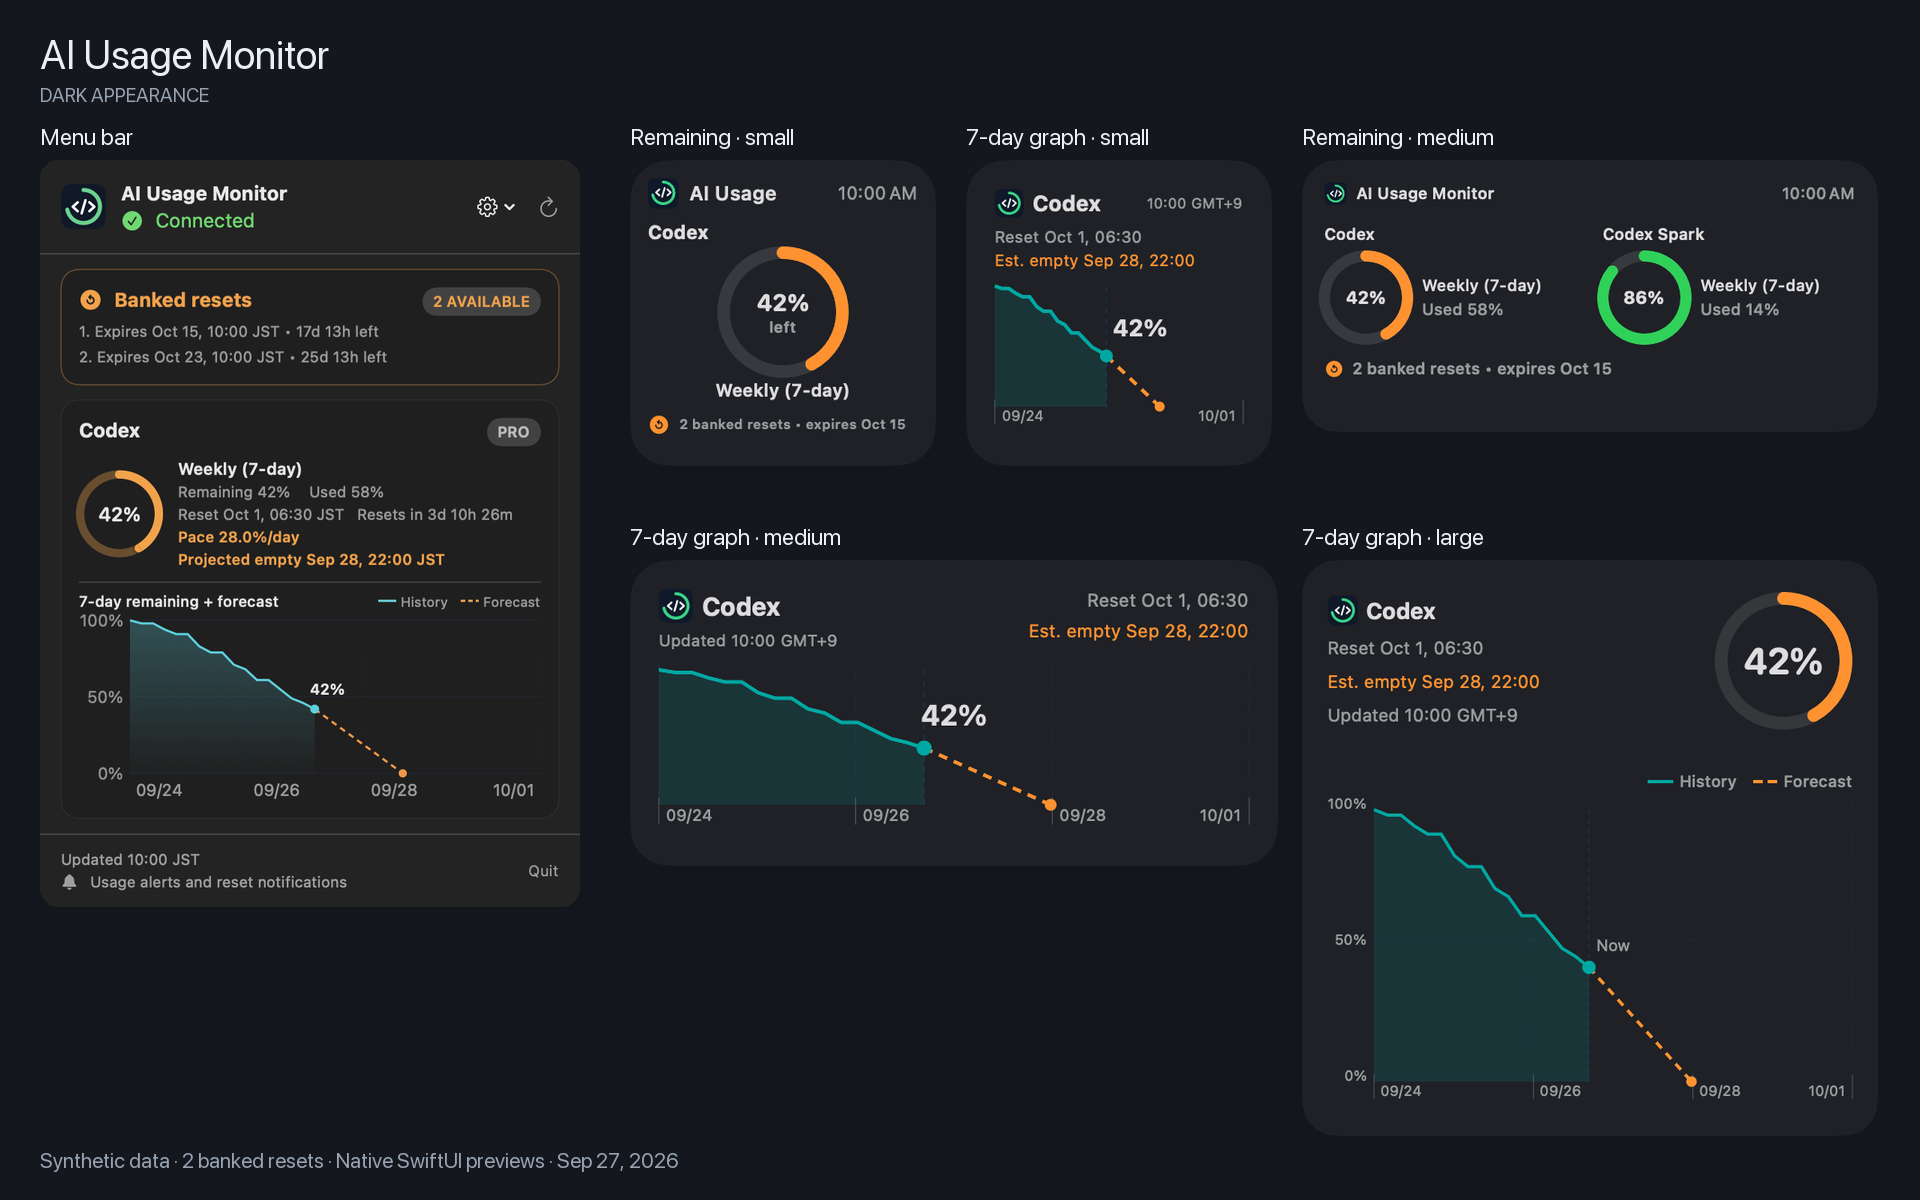
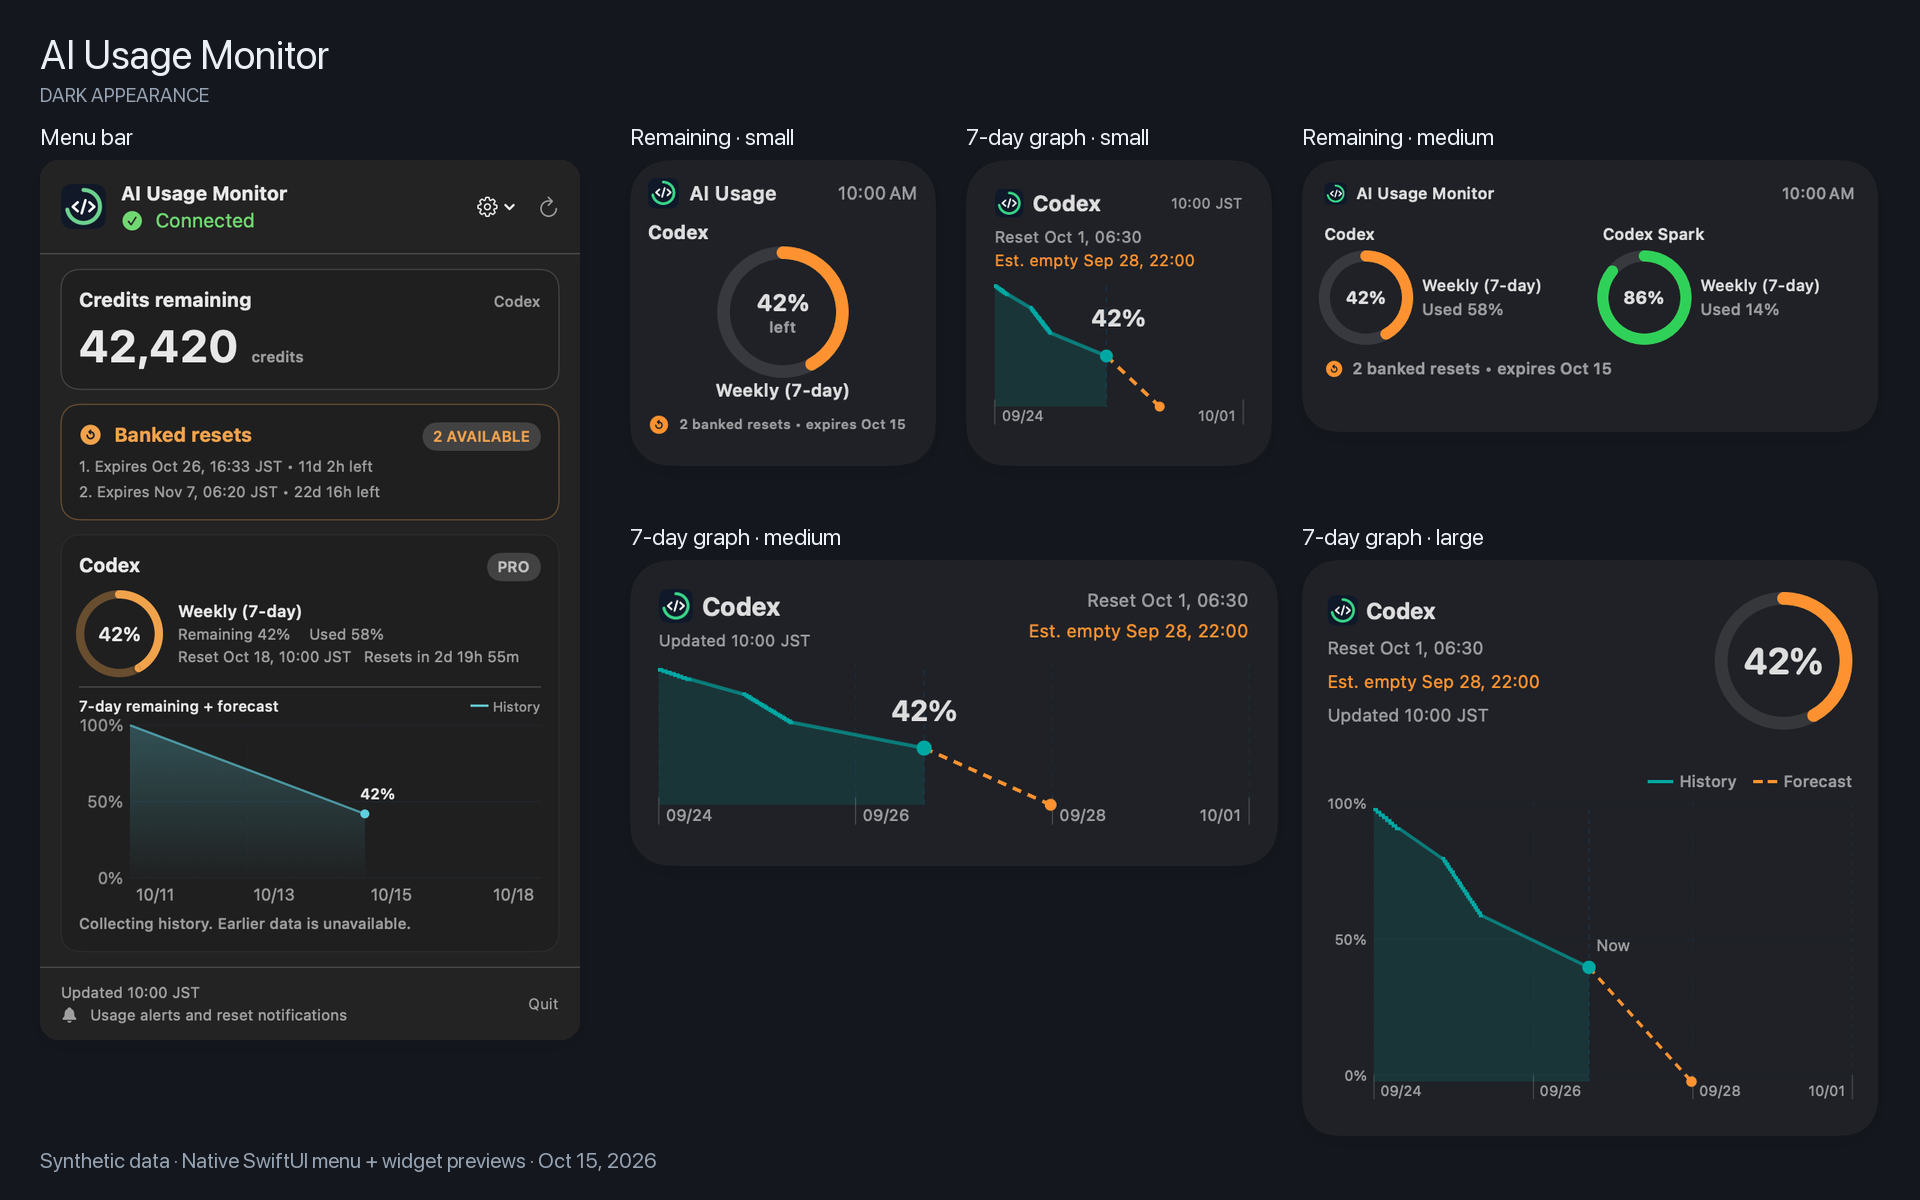
Show remaining Codex credits in the menu panel (#1)

diff --git a/tests/CodexUsageCoreTests/UsageCreditBalanceTests.swift b/tests/CodexUsageCoreTests/UsageCreditBalanceTests.swift
@@ -1,0 +1,111 @@
+import XCTest
+@testable import CodexUsageCore
+
+final class UsageCreditBalanceTests: XCTestCase {
+    private let locale = Locale(identifier: "en_US")
+
+    func testNormalizesExactDecimalBalanceAndRemovesInsignificantZeros() throws {
+        let snapshot = try normalize(["hasCredits": true, "unlimited": false, "balance": "42420.1250000000"])
+        XCTAssertEqual(snapshot.creditBalance, .amount(Decimal(string: "42420.125")!))
+        XCTAssertEqual(snapshot.creditBalance?.formattedAmount(locale: locale), "42,420.125")
+        XCTAssertEqual(snapshot.limits.first?.windows.first?.remainingPercent, 76)
+    }
+
+    func testZeroIsARealBalanceEvenWhenHasCreditsIsFalse() throws {
+        let snapshot = try normalize(["hasCredits": false, "unlimited": false, "balance": "0.0000000000"])
+        XCTAssertEqual(snapshot.creditBalance, .amount(.zero))
+        XCTAssertEqual(snapshot.creditBalance?.formattedAmount(locale: locale), "0")
+    }
+
+    func testMissingBalanceDoesNotBecomeZero() throws {
+        for value: Any? in [nil, NSNull(), ["hasCredits": false, "unlimited": false],
+                               ["hasCredits": false, "unlimited": false, "balance": NSNull()]] {
+            XCTAssertNil(try normalize(value).creditBalance)
+        }
+    }
+
+    func testUnlimitedTakesPrecedenceOverNumericOrMissingBalance() throws {
+        for value: Any in [NSNull(), "0", "42420"] {
+            let snapshot = try normalize(["hasCredits": true, "unlimited": true, "balance": value])
+            XCTAssertEqual(snapshot.creditBalance, .unlimited)
+            XCTAssertEqual(snapshot.creditBalance?.formattedAmount(locale: locale), "Unlimited")
+        }
+    }
+
+    func testInvalidOptionalCreditMetadataDoesNotHideQuotaWindows() throws {
+        let invalid: [Any] = [
+            "invalid", true, ["hasCredits": true, "unlimited": 1, "balance": "42"],
+            ["hasCredits": 1, "unlimited": false, "balance": "42"],
+            ["hasCredits": true, "unlimited": false, "balance": true],
+            ["hasCredits": true, "unlimited": false, "balance": 42],
+            ["hasCredits": true, "unlimited": false, "balance": "42credits"],
+            ["hasCredits": true, "unlimited": false, "balance": "NaN"],
+            ["hasCredits": true, "unlimited": false, "balance": "Infinity"],
+            ["hasCredits": true, "unlimited": false, "balance": "42,420"],
+            ["hasCredits": true, "unlimited": false, "balance": ""]
+        ]
+        for value in invalid {
+            let snapshot = try normalize(value)
+            XCTAssertNil(snapshot.creditBalance)
+            XCTAssertEqual(snapshot.limits.first?.windows.first?.remainingPercent, 76)
+        }
+    }
+
+    func testTinyFractionDoesNotDisplayAsZero() throws {
+        let balance = try normalize(["hasCredits": true, "unlimited": false, "balance": "0.0000000001"])
+        XCTAssertEqual(balance.creditBalance?.formattedAmount(locale: locale), "0.0000000001")
+    }
+
+    func testBalanceDoesNotPassThroughBinaryFloatingPoint() throws {
+        let snapshot = try normalize(["hasCredits": true, "unlimited": false, "balance": "9007199254740993.125"])
+        XCTAssertEqual(snapshot.creditBalance?.formattedAmount(locale: locale), "9,007,199,254,740,993.125")
+    }
+
+    func testFormattingUsesTheRequestedLocale() {
+        XCTAssertEqual(UsageCreditBalance.amount(Decimal(string: "42420.5")!)
+            .formattedAmount(locale: Locale(identifier: "de_DE")), "42.420,5")
+    }
+
+    func testMapIsAuthoritativeAndDoesNotBorrowLegacyCredits() throws {
+        let old = bucket(credits: ["hasCredits": true, "unlimited": false, "balance": "42420"])
+        let snapshot = try UsageNormalizer.normalize([
+            "rateLimits": old,
+            "rateLimitsByLimitId": ["codex": bucket(credits: nil)]
+        ])
+        XCTAssertNil(snapshot.creditBalance)
+    }
+
+    func testLegacyBucketIsSupportedWhenMapIsAbsent() throws {
+        let snapshot = try normalize(["hasCredits": true, "unlimited": false, "balance": "42420"])
+        XCTAssertEqual(snapshot.creditBalance?.formattedAmount(locale: locale), "42,420")
+    }
+
+    func testAdditionalBucketsAreNotAddedOrSubstitutedForCodex() throws {
+        let credits: [String: Any] = ["hasCredits": true, "unlimited": false, "balance": "42420"]
+        var additional = bucket(credits: credits)
+        additional["limitId"] = "additional"
+        let missing = try UsageNormalizer.normalize(["rateLimitsByLimitId": ["additional": additional]])
+        XCTAssertNil(missing.creditBalance)
+        let snapshot = try UsageNormalizer.normalize(["rateLimitsByLimitId": [
+            "additional": additional, "codex": bucket(credits: credits)
+        ]])
+        XCTAssertEqual(snapshot.creditBalance, .amount(42420))
+    }
+
+    func testAbsentCreditsPreserveExistingSnapshotConstruction() {
+        XCTAssertNil(UsageSnapshot(limits: [], updatedAt: Date()).creditBalance)
+    }
+
+    private func normalize(_ credits: Any?) throws -> UsageSnapshot {
+        try UsageNormalizer.normalize(["rateLimits": bucket(credits: credits)])
+    }
+
+    private func bucket(credits: Any?) -> [String: Any] {
+        var value: [String: Any] = [
+            "limitId": "codex",
+            "primary": ["usedPercent": 24, "windowDurationMins": 10080, "resetsAt": 1800000000]
+        ]
+        if let credits { value["credits"] = credits }
+        return value
+    }
+}

diff --git a/Sources/CodexUsageMonitorApp/CreditsBalanceCard.swift b/Sources/CodexUsageMonitorApp/CreditsBalanceCard.swift
@@ -1,0 +1,56 @@
+import CodexUsageCore
+import SwiftUI
+
+struct CreditsBalanceCard: View {
+    let balance: UsageCreditBalance?
+    let isStale: Bool
+
+    private var valueColor: Color {
+        guard let balance else { return .secondary }
+        if case .amount(let value) = balance, value == .zero { return .orange }
+        return .primary
+    }
+
+    var body: some View {
+        VStack(alignment: .leading, spacing: 5) {
+            HStack(alignment: .firstTextBaseline) {
+                Text("Credits remaining")
+                    .font(.headline)
+                Spacer()
+                Text("Codex")
+                    .font(.caption2)
+                    .foregroundStyle(.secondary)
+            }
+            HStack(alignment: .firstTextBaseline, spacing: 8) {
+                Text(balance?.formattedAmount() ?? "Unavailable")
+                    .font(.system(size: balance == nil ? 23 : 30, weight: .bold))
+                    .monospacedDigit()
+                    .foregroundStyle(valueColor)
+                    .lineLimit(1)
+                    .minimumScaleFactor(0.5)
+                if case .amount? = balance {
+                    Text("credits")
+                        .font(.caption.weight(.semibold))
+                        .foregroundStyle(.secondary)
+                }
+            }
+            if isStale {
+                Text(balance == nil ? "Update failed" : "Update failed · Showing last balance")
+                    .font(.caption2)
+                    .foregroundStyle(.orange)
+            } else if balance == nil {
+                Text("Credit balance was not returned")
+                    .font(.caption2)
+                    .foregroundStyle(.secondary)
+            }
+        }
+        .frame(maxWidth: .infinity, alignment: .leading)
+        .padding(12)
+        .background(.background.opacity(0.68), in: RoundedRectangle(cornerRadius: 12))
+        .overlay {
+            RoundedRectangle(cornerRadius: 12)
+                .stroke(.quaternary, lineWidth: 0.8)
+        }
+        .accessibilityElement(children: .combine)
+    }
+}

diff --git a/Sources/CodexUsageMonitorApp/UsagePanel.swift b/Sources/CodexUsageMonitorApp/UsagePanel.swift
@@ -96,6 +96,7 @@ struct UsagePanel: View {
         if let snapshot = model.snapshot {
             ScrollView {
                 LazyVStack(spacing: 10) {
+                    CreditsBalanceCard(balance: snapshot.creditBalance, isStale: hasRefreshFailure)
                     ResetCreditsCard(summary: snapshot.resetCredits)
                     ForEach(Array(snapshot.limits.prefix(2))) { limit in
                         LimitCard(limit: limit, paceEstimates: model.paceEstimates,
@@ -141,6 +142,11 @@ struct UsagePanel: View {
         }
     }
 
+    private var hasRefreshFailure: Bool {
+        if case .failed = model.state { return true }
+        return false
+    }
+
     private var panelHeight: CGFloat {
         let contentHeight = measuredContentHeight > 0
             ? measuredContentHeight
@@ -171,10 +177,10 @@ struct UsagePanel: View {
         } else {
             hasErrorBanner = false
         }
-        let itemCount = snapshot.limits.count + 1 + (hasErrorBanner ? 1 : 0)
+        let itemCount = snapshot.limits.count + 1 + 1 + (hasErrorBanner ? 1 : 0)
         let spacing = CGFloat(max(itemCount - 1, 0)) * 10
         let errorBannerHeight: CGFloat = hasErrorBanner ? 44 : 0
-        return 20 + cardHeight + resetCreditsHeight + spacing + errorBannerHeight
+        return 20 + 84 + cardHeight + resetCreditsHeight + spacing + errorBannerHeight
     }
 
     private var footer: some View {

diff --git a/Sources/CodexUsageCore/UsageModels.swift b/Sources/CodexUsageCore/UsageModels.swift
@@ -36,6 +36,7 @@ public struct UsageLimit: Identifiable, Equatable, Sendable {
     public let rateLimitReachedType: String?
     public let spendControlReached: Bool?
     public let windows: [UsageWindow]
+    public let creditBalance: UsageCreditBalance?
 
     public var id: String { limitID }
 
@@ -45,7 +46,8 @@ public struct UsageLimit: Identifiable, Equatable, Sendable {
         planType: String?,
         rateLimitReachedType: String?,
         spendControlReached: Bool?,
-        windows: [UsageWindow]
+        windows: [UsageWindow],
+        creditBalance: UsageCreditBalance? = nil
     ) {
         self.limitID = limitID
         self.displayName = displayName
@@ -53,6 +55,7 @@ public struct UsageLimit: Identifiable, Equatable, Sendable {
         self.rateLimitReachedType = rateLimitReachedType
         self.spendControlReached = spendControlReached
         self.windows = windows
+        self.creditBalance = creditBalance
     }
 }
 
@@ -96,6 +99,10 @@ public struct UsageResetCreditsSummary: Equatable, Sendable {
 }
 
 public struct UsageSnapshot: Equatable, Sendable {
+    public var creditBalance: UsageCreditBalance? {
+        limits.first { $0.limitID == "codex" }?.creditBalance
+    }
+
     public let limits: [UsageLimit]
     public let resetCredits: UsageResetCreditsSummary?
     public let updatedAt: Date

diff --git a/Sources/CodexUsageCore/UsageNormalizer.swift b/Sources/CodexUsageCore/UsageNormalizer.swift
@@ -159,8 +159,25 @@ public enum UsageNormalizer {
             planType: planType,
             rateLimitReachedType: reachedType,
             spendControlReached: spendControlReached,
-            windows: windows
+            windows: windows,
+            creditBalance: parseCreditBalance(snapshot["credits"])
         )
+    }
+
+    private static func parseCreditBalance(_ value: Any?) -> UsageCreditBalance? {
+        guard let raw = value as? [String: Any],
+              let hasCredits = raw["hasCredits"] as? NSNumber,
+              CFGetTypeID(hasCredits) == CFBooleanGetTypeID(),
+              let unlimited = raw["unlimited"] as? NSNumber,
+              CFGetTypeID(unlimited) == CFBooleanGetTypeID()
+        else { return nil }
+        if unlimited.boolValue { return .unlimited }
+        guard let string = raw["balance"] as? String,
+              string.range(of: #"^-?[0-9]+(?:\.[0-9]+)?$"#, options: .regularExpression) != nil,
+              let amount = Decimal(string: string, locale: Locale(identifier: "en_US_POSIX")),
+              !amount.isNaN
+        else { return nil }
+        return .amount(amount)
     }
 
     private static func parseWindow(

diff --git a/Sources/CodexUsageCore/UsageCreditBalance.swift b/Sources/CodexUsageCore/UsageCreditBalance.swift
@@ -1,0 +1,18 @@
+import Foundation
+
+/// The returned Codex credit balance, separate from quota percentages and reset vouchers.
+public enum UsageCreditBalance: Equatable, Sendable {
+    case amount(Decimal)
+    case unlimited
+
+    public func formattedAmount(locale: Locale = .current) -> String {
+        switch self {
+        case .unlimited:
+            return "Unlimited"
+        case .amount(let balance):
+            return balance.formatted(
+                .number.precision(.fractionLength(0...38)).locale(locale)
+            )
+        }
+    }
+}

diff --git a/README.md b/README.md
@@ -11,6 +11,7 @@ AI Usage Monitorは、ローカルにインストールされたCodexの`app-ser
 
 架空データによる表示例です。メニュー画面、円グラフウィジェットの小・中サイズ、
 7日間グラフウィジェットの小・中・大サイズをライト・ダーク両方で紹介します。
+メニューの残クレジットは42,420という架空の表示例です。
 バンクリセットは2件あり、メニューではそれぞれの期限を表示しています。
 
 ライト表示：
@@ -116,6 +117,8 @@ URLで識別してください。
 
 ## 主な機能
 
+- メニューバー画面の上部に、Codexから返された残クレジットを表示します。
+
 - ローカルのCodex `app-server`が返す、すべての利用枠を表示します。
 - 残量、使用率、リセット時刻、リセットまでのカウントダウンを表示します。
 - 利用可能なすべてのバンクリセットと、判明している各有効期限を表示します。
@@ -132,6 +135,15 @@ URLで識別してください。
 
 AI Usage Monitorがバンクリセットを使用したり、利用上限の回避・変更を試みたりする
 ことはありません。
+
+## 残クレジット
+
+メニューバー画面の「Credits remaining」に、Codexが返す現在の残高を表示します。
+リセット券の枚数や週間利用枠の残量とは別の値です。総付与量からの推計や固定値ではありません。
+小数を含む残高も表示し、残高0、無制限（Unlimited）、未取得（Unavailable）を区別します。
+更新時刻は画面下部にまとめています。取得に失敗した場合は前回の正常な残高を保持し、
+カード内にも更新失敗を表示します。応答に残高が含まれない場合は0とみなさず、未取得とします。
+既存の3分ごとの更新と手動更新を使い、残高はファイルやウィジェットへ追加保存しません。
 
 ## 7日間の残量グラフと使い切り予測
 

diff --git a/CHANGELOG.md b/CHANGELOG.md
@@ -3,6 +3,10 @@
 2026年9月20日のソースコード公開以降、公開リポジトリの`main`に反映した主な変更です。
 日付は`main`への反映日です。バージョン番号を付けた配布版はまだないため、日付順に記録します。
 
+## 2026-10-15
+
+- メニューバー画面の上部に残クレジットを追加しました。残高0・無制限・未取得を区別し、更新失敗時は前回値を保持します。更新時刻は画面下部にまとめています。
+
 ## 2026-09-29
 
 - リセット予定時刻に1秒の差があると、保存済み履歴の一部がグラフから消える不具合を修正しました。
